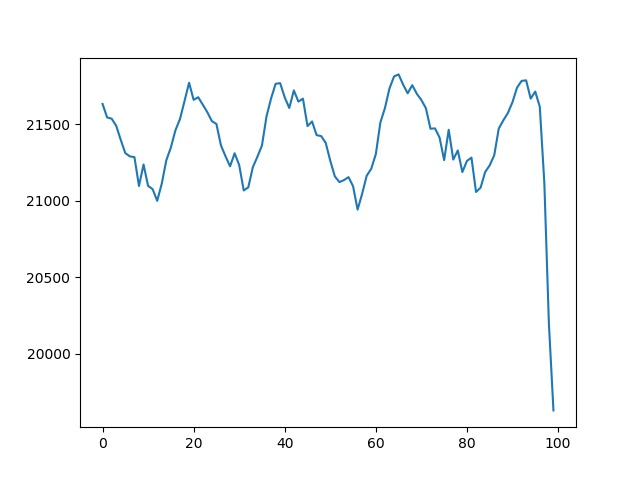
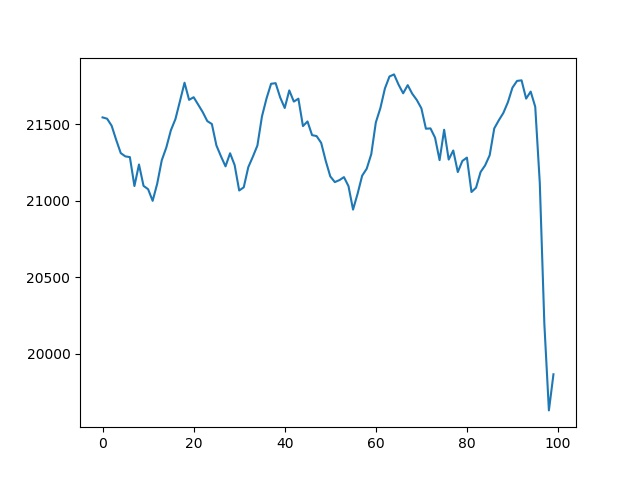
'auto'

Changed region(s): [[0.1562, 0.1562, 0.6562, 0.4375], [0.7812, 0.1562, 0.875, 0.875], [0.6562, 0.2188, 0.7812, 0.4062]]

diff --git a/README.md b/README.md
@@ -1,5 +1,5 @@
 Frizider live: 4
-19629.30833333333 
+19865.50833333333 
 1
 Temperatura:
 
